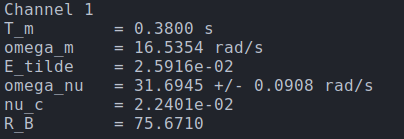
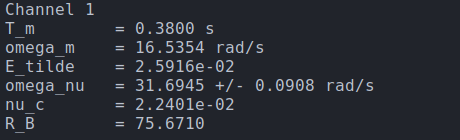
Auto export for the Lab Journal.

diff --git a/Lab-Journal-html/2026/09/week-38.html b/Lab-Journal-html/2026/09/week-38.html
@@ -49,45 +49,46 @@
 <h2>Table of Contents</h2>
 <div id="text-table-of-contents" role="doc-toc">
 <ul>
-<li><a href="#orgcd9d818">Referencias</a></li>
-<li><a href="#orge47bab2">2026-09-14</a>
+<li><a href="#orgc6b9a67">Referencias</a></li>
+<li><a href="#org1ad37c5">2026-09-14</a>
 <ul>
-<li><a href="#orge9a9b44">[10:47]</a></li>
-<li><a href="#org5c36a6c">[11:03]</a></li>
-<li><a href="#orge93f0bd">[11:04]</a></li>
-<li><a href="#org6e8f814">[11:53]</a></li>
-<li><a href="#orgaaf39ba">[11:59]</a></li>
+<li><a href="#org88f333f">[10:47]</a></li>
+<li><a href="#orgc81a1d3">[11:03]</a></li>
+<li><a href="#orgb04eece">[11:04]</a></li>
+<li><a href="#orge2a0351">[11:53]</a></li>
+<li><a href="#orgd757107">[11:59]</a></li>
 </ul>
 </li>
-<li><a href="#org048e705">2026-09-16</a>
+<li><a href="#orga310b68">2026-09-16</a>
 <ul>
-<li><a href="#orgf92af3f">[10:35]</a></li>
+<li><a href="#orgf76f6a0">[10:35]</a></li>
+<li><a href="#orgc1940b9">[11:19]</a></li>
 </ul>
 </li>
 </ul>
 </div>
 </div>
-<div id="outline-container-orgcd9d818" class="outline-2">
-<h2 id="orgcd9d818">Referencias</h2>
-<div class="outline-text-2" id="text-orgcd9d818">
+<div id="outline-container-orgc6b9a67" class="outline-2">
+<h2 id="orgc6b9a67">Referencias</h2>
+<div class="outline-text-2" id="text-orgc6b9a67">
 <div class="csl-bib-body">
   <div class="csl-entry"><a id="citeproc_bib_item_1"></a>Bonneton, Philippe. 2023. “Energy and Dissipation Spectra of Waves Propagating in the Inner Surf Zone.” <i>Journal of Fluid Mechanics</i> 977 (December): A48. <a href="https://doi.org/10.1017/jfm.2023.878">https://doi.org/10.1017/jfm.2023.878</a>.</div>
 </div>
 </div>
 </div>
-<div id="outline-container-orge47bab2" class="outline-2">
-<h2 id="orge47bab2">2026-09-14</h2>
-<div class="outline-text-2" id="text-orge47bab2">
+<div id="outline-container-org1ad37c5" class="outline-2">
+<h2 id="org1ad37c5">2026-09-14</h2>
+<div class="outline-text-2" id="text-org1ad37c5">
 </div>
-<div id="outline-container-orge9a9b44" class="outline-3">
-<h3 id="orge9a9b44">[10:47]</h3>
-<div class="outline-text-3" id="text-orge9a9b44">
+<div id="outline-container-org88f333f" class="outline-3">
+<h3 id="org88f333f">[10:47]</h3>
+<div class="outline-text-3" id="text-org88f333f">
 <p>
 Estoy usando <code>PyBurgers</code> para resolver la Ecuación de Burgers 1D con disipación y comparar con los resultados experimentales. Acá para una discretización espacial equivalente a nuestra serie temporal, pero que sería de \(T=50\) s y \(f_s=200\) Hz y \(\nu=0.0510\).
 </p>
 
 
-<div id="orgbd0c73b" class="figure">
+<div id="orgfb7211b" class="figure">
 <p><img src="../../../Assets/2026/09/Day_14/serie_temporal_num_rica.png" alt="serie_temporal_num_rica.png" />
 </p>
 </div>
@@ -97,21 +98,21 @@ La condición inicial es ruido hasta 2 Hz. El espectro da así:
 </p>
 
 
-<div id="org3b9ffeb" class="figure">
+<div id="orgf0fa0b5" class="figure">
 <p><img src="../../../Assets/2026/09/Day_14/espectro_num_rico.png" alt="espectro_num_rico.png" />
 </p>
 </div>
 </div>
 </div>
-<div id="outline-container-org5c36a6c" class="outline-3">
-<h3 id="org5c36a6c">[11:03]</h3>
-<div class="outline-text-3" id="text-org5c36a6c">
+<div id="outline-container-orgc81a1d3" class="outline-3">
+<h3 id="orgc81a1d3">[11:03]</h3>
+<div class="outline-text-3" id="text-orgc81a1d3">
 <p>
 Y las funciones de estructura:
 </p>
 
 
-<div id="org9b75fff" class="figure">
+<div id="org9d4297f" class="figure">
 <p><img src="../../../Assets/2026/09/Day_14/structure_functions_num_rico.png" alt="structure_functions_num_rico.png" />
 </p>
 </div>
@@ -121,7 +122,7 @@ Y el scaling:
 </p>
 
 
-<div id="org94a8302" class="figure">
+<div id="orga3b37b5" class="figure">
 <p><img src="../../../Assets/2026/09/Day_14/scaling_num_rico.png" alt="scaling_num_rico.png" />
 </p>
 </div>
@@ -132,9 +133,9 @@ Vale destacar que estoy usando los mismos códigos que para las mediciones.
 </p>
 </div>
 </div>
-<div id="outline-container-orge93f0bd" class="outline-3">
-<h3 id="orge93f0bd">[11:04]</h3>
-<div class="outline-text-3" id="text-orge93f0bd">
+<div id="outline-container-orgb04eece" class="outline-3">
+<h3 id="orgb04eece">[11:04]</h3>
+<div class="outline-text-3" id="text-orgb04eece">
 <p>
 Algunos comentarios:
 </p>
@@ -149,15 +150,15 @@ Algunos comentarios:
 </ul>
 </div>
 </div>
-<div id="outline-container-org6e8f814" class="outline-3">
-<h3 id="org6e8f814">[11:53]</h3>
-<div class="outline-text-3" id="text-org6e8f814">
+<div id="outline-container-orge2a0351" class="outline-3">
+<h3 id="orge2a0351">[11:53]</h3>
+<div class="outline-text-3" id="text-orge2a0351">
 <p>
 Acá está el ajuste que hacíamos antes para la evolución de un pulso Gaussiano, de parámetros: \(T=5\) s, \(f_s=200\) Hz, \(\nu=0.00510\) y amplitud \(A=1\) y dispersión \(\sigma=0.25\).
 </p>
 
 
-<div id="org75f3368" class="figure">
+<div id="org3bfa423" class="figure">
 <p><img src="../../../Assets/2026/09/Day_14/ajuste_Burgers_num_rico.png" alt="ajuste_Burgers_num_rico.png" />
 </p>
 </div>
@@ -167,28 +168,28 @@ Acá tuve que cambiar la variable \(z\) para sacar la inversión del eje x que t
 </p>
 </div>
 </div>
-<div id="outline-container-orgaaf39ba" class="outline-3">
-<h3 id="orgaaf39ba">[11:59]</h3>
-<div class="outline-text-3" id="text-orgaaf39ba">
+<div id="outline-container-orgd757107" class="outline-3">
+<h3 id="orgd757107">[11:59]</h3>
+<div class="outline-text-3" id="text-orgd757107">
 <p>
 Y los parámetros de ese ajuste es:
 </p>
 
 
-<div id="org39bddb8" class="figure">
+<div id="orgc10c4f5" class="figure">
 <p><img src="../../../Assets/2026/09/Day_14/par_metros_ajuste.png" alt="par_metros_ajuste.png" />
 </p>
 </div>
 </div>
 </div>
 </div>
-<div id="outline-container-org048e705" class="outline-2">
-<h2 id="org048e705">2026-09-16</h2>
-<div class="outline-text-2" id="text-org048e705">
+<div id="outline-container-orga310b68" class="outline-2">
+<h2 id="orga310b68">2026-09-16</h2>
+<div class="outline-text-2" id="text-orga310b68">
 </div>
-<div id="outline-container-orgf92af3f" class="outline-3">
-<h3 id="orgf92af3f">[10:35]</h3>
-<div class="outline-text-3" id="text-orgf92af3f">
+<div id="outline-container-orgf76f6a0" class="outline-3">
+<h3 id="orgf76f6a0">[10:35]</h3>
+<div class="outline-text-3" id="text-orgf76f6a0">
 <p>
 Estoy estimando los parámetros que reporta Bonneton en su paper de (<a href="#citeproc_bib_item_1">Bonneton 2023</a>). Estos parámetros son:
 </p>
@@ -263,7 +264,7 @@ Para estimar \(T_m\), o sea, ell tiempo entre choques Bonneton hace wave by wave
 </p>
 
 
-<div id="org85c65bc" class="figure">
+<div id="org402ea95" class="figure">
 <p><img src="../../../Assets/2026/09/Day_16/distancia_entre_frentes.png" alt="distancia_entre_frentes.png" />
 </p>
 </div>
@@ -273,7 +274,7 @@ Para hallar \(\omega_\nu\) ajusté el espectro obtenido con Welch.
 </p>
 
 
-<div id="org94af920" class="figure">
+<div id="orgc8188a3" class="figure">
 <p><img src="../../../Assets/2026/09/Day_16/ajuste_E.png" alt="ajuste_E.png" />
 </p>
 </div>
@@ -283,10 +284,23 @@ Los valores obtenidos son:
 </p>
 
 
-<div id="orgec3b437" class="figure">
+<div id="org52d5cf6" class="figure">
 <p><img src="../../../Assets/2026/09/Day_16/valores_obtenidos.png" alt="valores_obtenidos.png" />
 </p>
 </div>
+
+<div id="orga1b26a7" class="figure">
+<p><img src="../../../Assets/2026/09/Day_16/valores_obtenidos.png" alt="valores_obtenidos.png" />
+</p>
+</div>
+</div>
+</div>
+<div id="outline-container-orgc1940b9" class="outline-3">
+<h3 id="orgc1940b9">[11:19]</h3>
+<div class="outline-text-3" id="text-orgc1940b9">
+<p>
+Hay algo que me genera duda, sobre si para calcular E debería usar \(E=g\langle\eta²\rangle\) o simplemente la altura sin el factor \(g\). Me inclino a pensar que debería ser la primera opción, pero si la uso me da \(\nu_c\sim10^{-2}\) y \(H_c\sim30\) cm, mientras que si uso la segunda me queda \(\nu_c\sim10{-3}\) y queda \(H_c\sim9\) cm. En cualquier caso es muy alta de todas formas. Por ahí tiene que ver con la forma en que estimo el \(T_m\), que me está dando más chico de lo que es realmente, ya que solo una parte de todos los picos son ondas que rompen.
+</p>
 </div>
 </div>
 </div>
